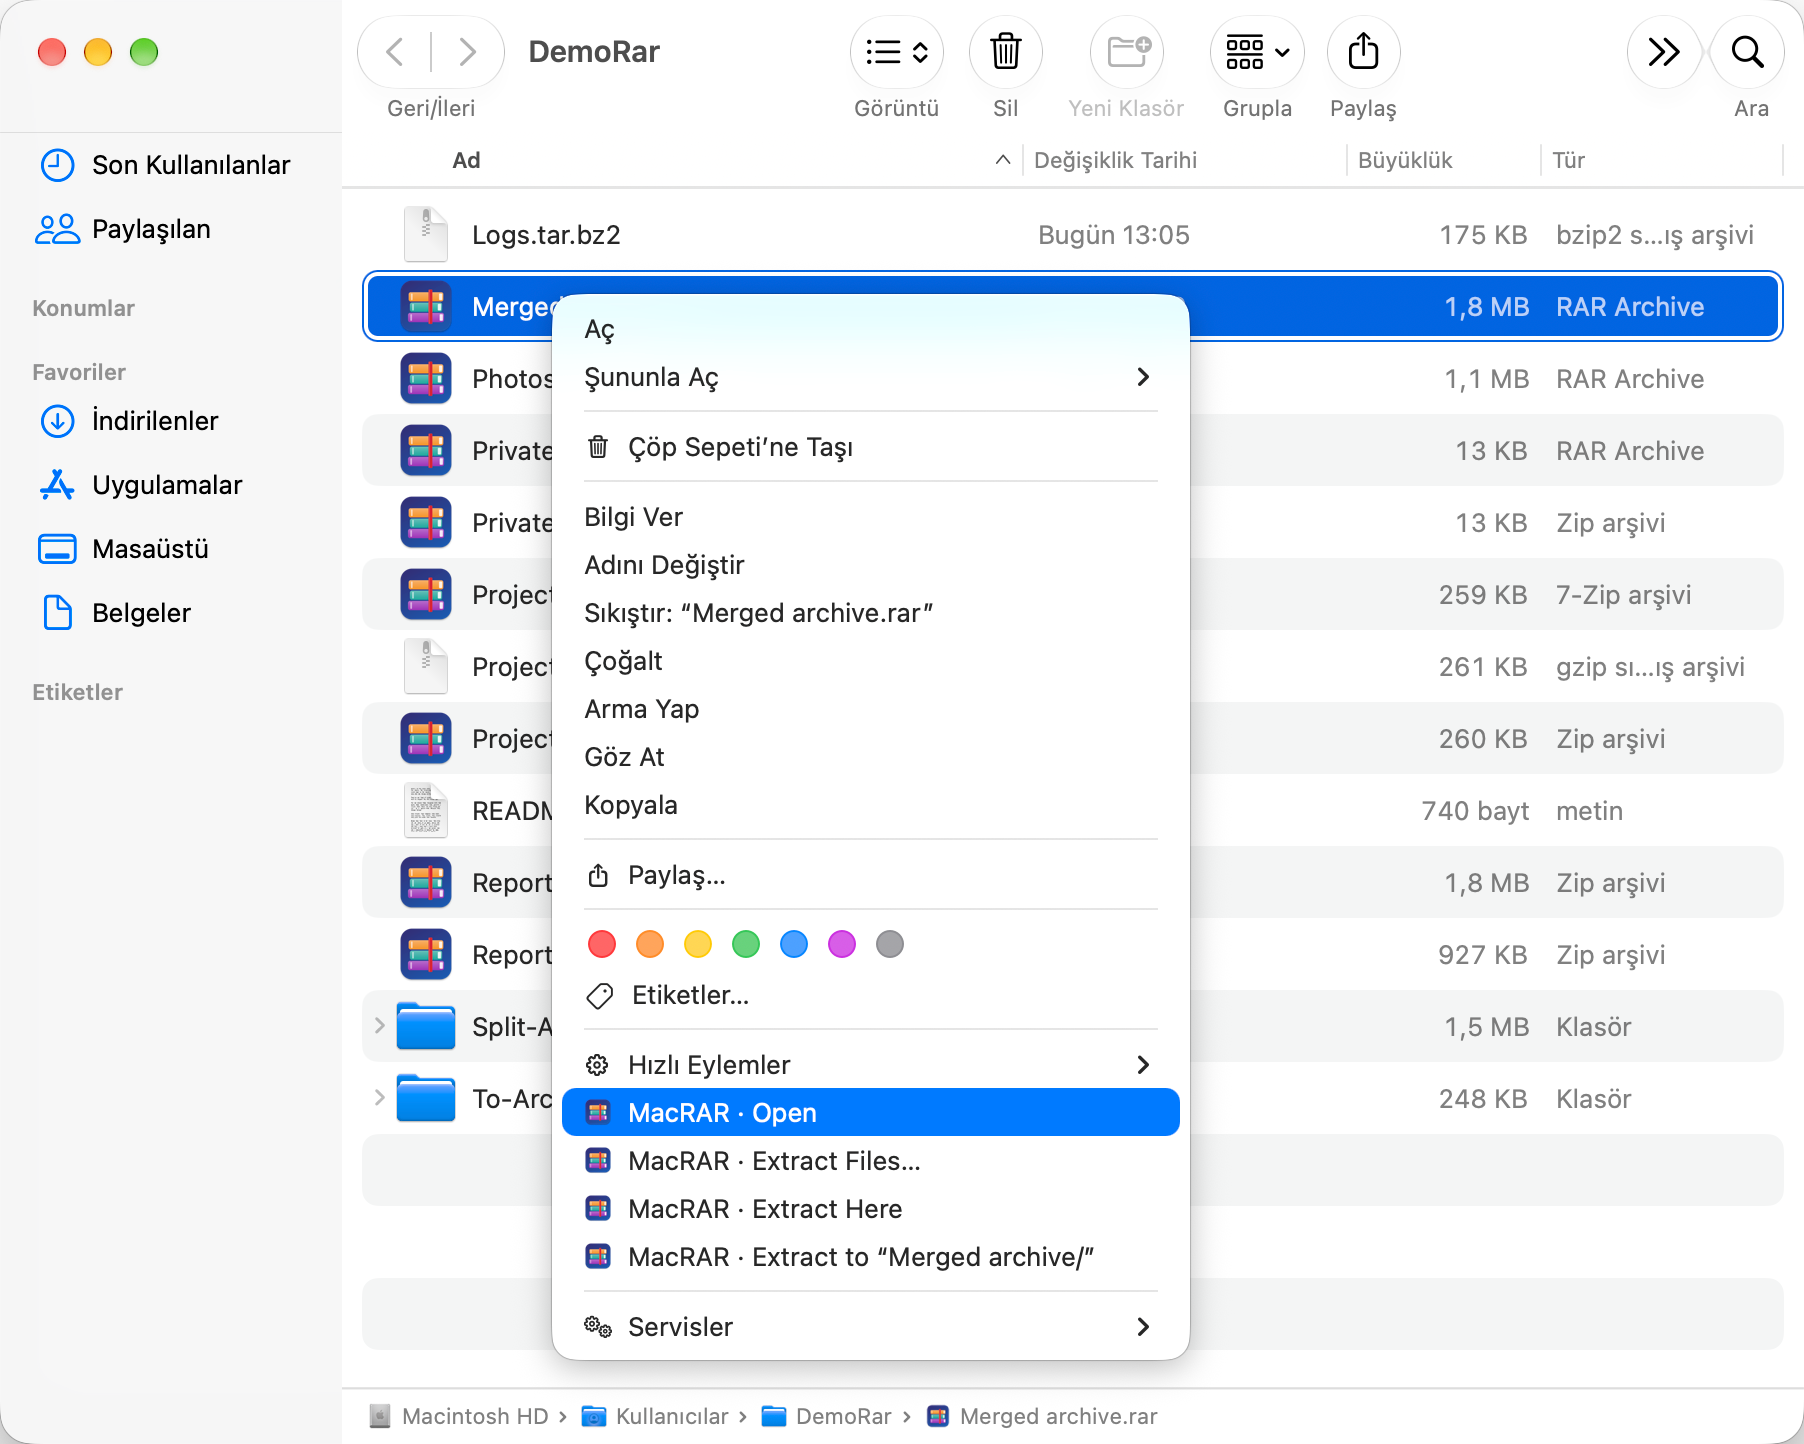
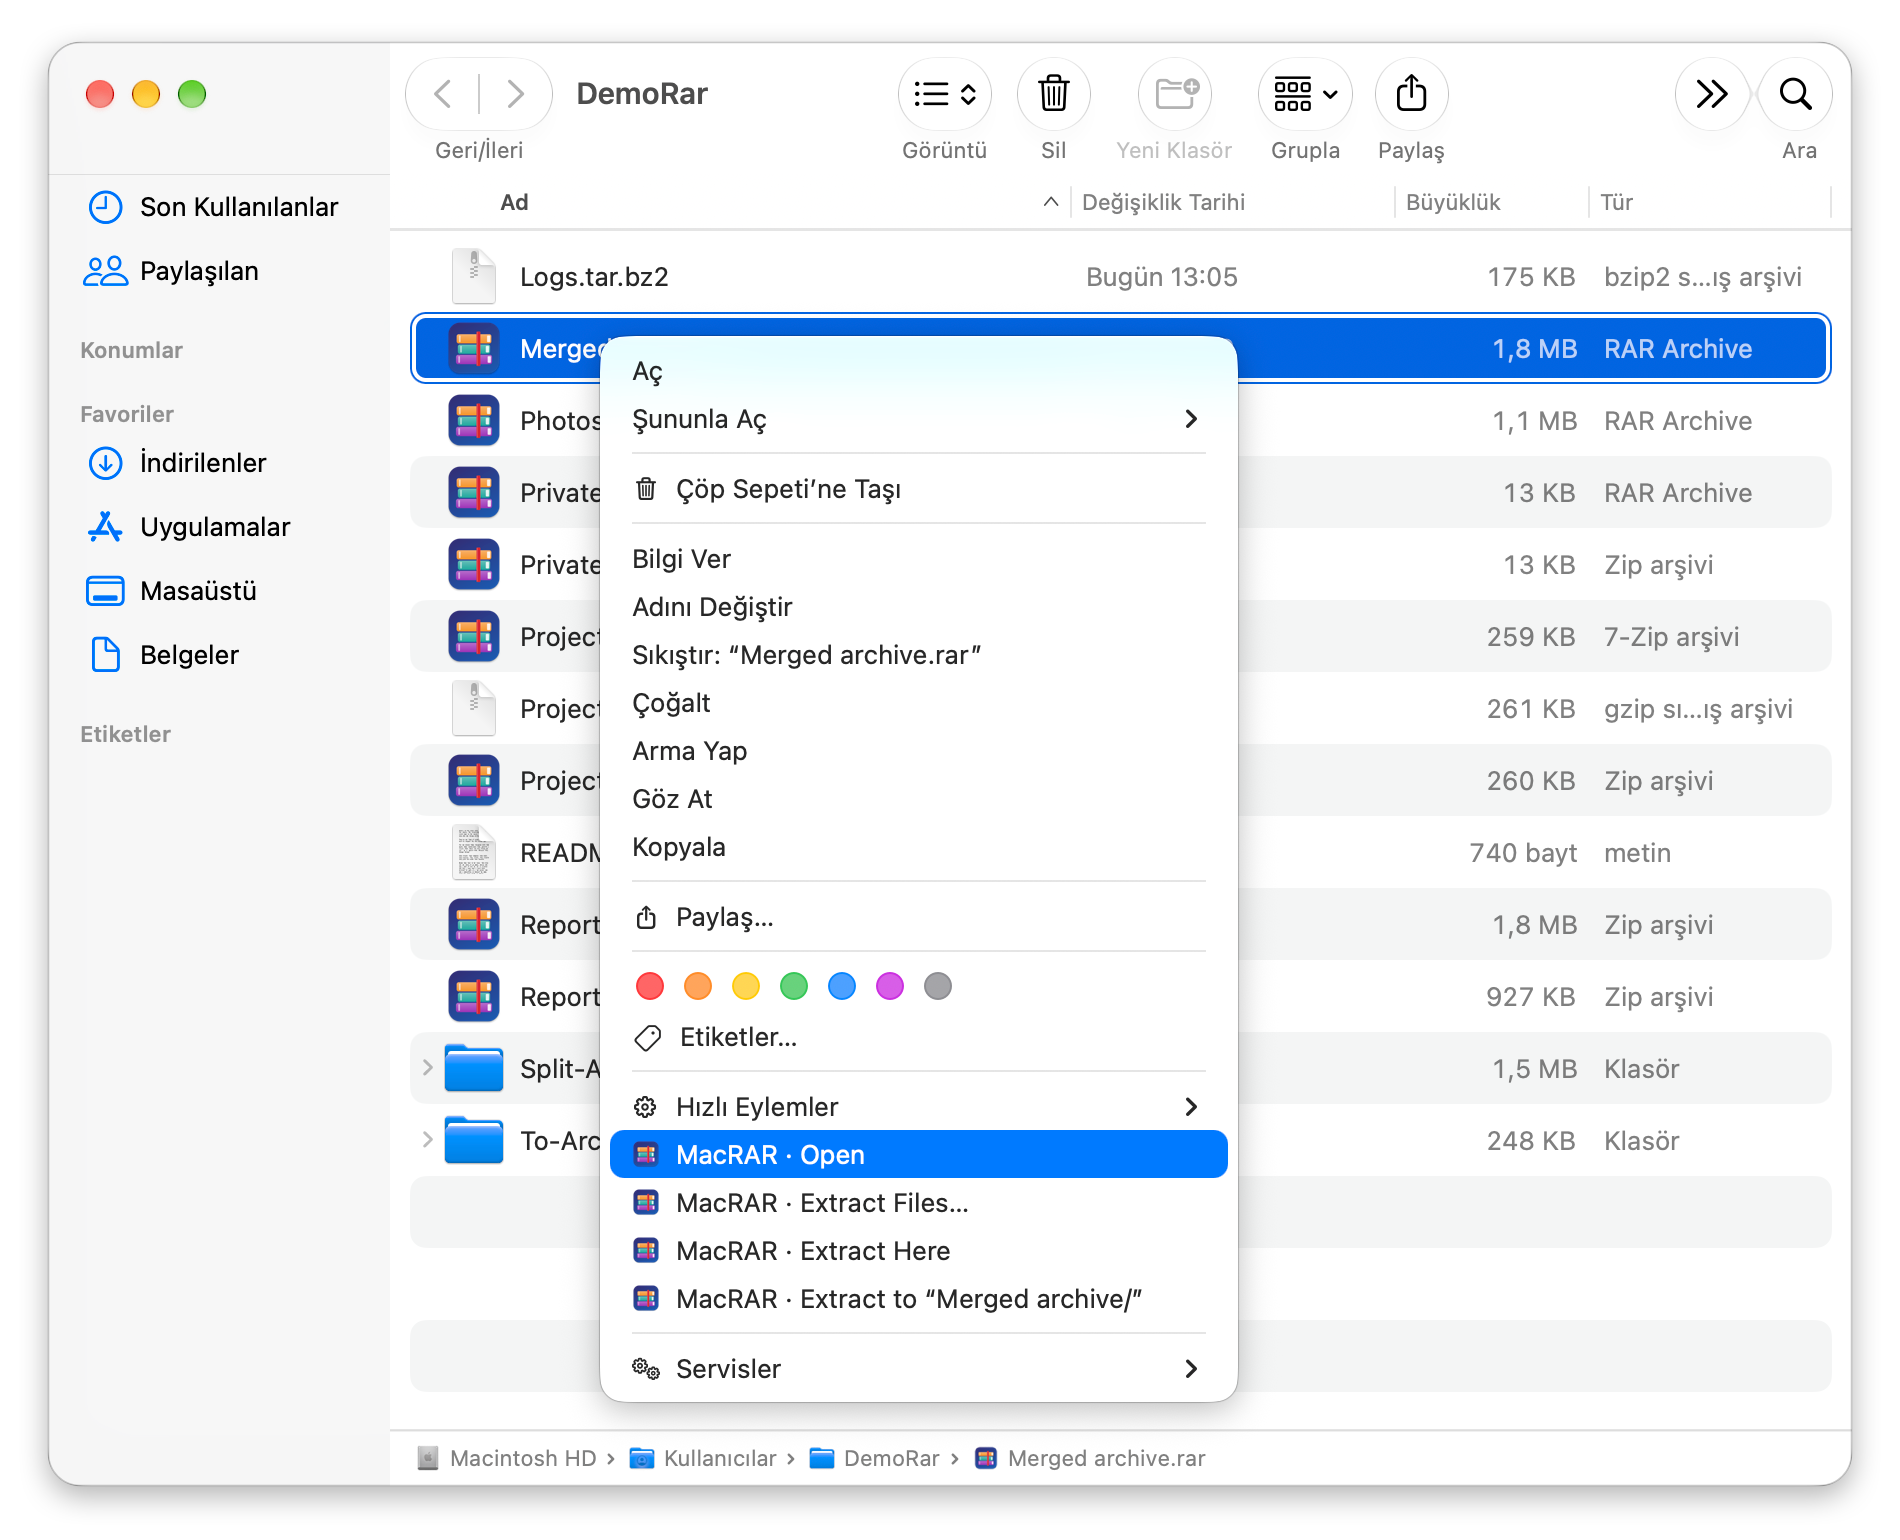
README görüntüleri: yuvarlak köşe, ince kenar ve gölge (açık zeminde pencere sınırı görünsün)

diff --git a/README.md b/README.md
@@ -31,9 +31,9 @@
 > Prefer Terminal? Run `xattr -d com.apple.quarantine ~/Downloads/MacRAR-*.pkg`, then double-click the package.
 
 <p align="center">
-  <img src="docs/screenshots/gatekeeper-warning.png" width="298" alt="macOS warning: the package was not opened. Click Done.">
+  <img src="docs/screenshots/gatekeeper-warning.png" width="327" alt="macOS warning: the package was not opened. Click Done.">
   &nbsp;
-  <img src="docs/screenshots/gatekeeper-open-anyway.png" width="520" alt="System Settings, Privacy &amp; Security: Open Anyway">
+  <img src="docs/screenshots/gatekeeper-open-anyway.png" width="551" alt="System Settings, Privacy &amp; Security: Open Anyway">
 </p>
 <p align="center"><sub>Left: click <b>Done</b>. Right: <b>System Settings ▸ Privacy &amp; Security ▸ Open Anyway</b>. (Screenshots from a Turkish macOS.)</sub></p>
 
@@ -77,31 +77,31 @@ Asked for encrypted archives, with the saved passwords menu and the option to sa
 
 Passwords are stored in the macOS Keychain.
 
-<p align="center"><img src="docs/screenshots/password-manager.png" width="520" alt="Password manager"></p>
+<p align="center"><img src="docs/screenshots/password-manager.png" width="568" alt="Password manager"></p>
 
 ### Settings ▸ General
 
 Hidden files, interface language and the password manager.
 
-<p align="center"><img src="docs/screenshots/settings-general.png" width="600" alt="Settings ▸ General"></p>
+<p align="center"><img src="docs/screenshots/settings-general.png" width="648" alt="Settings ▸ General"></p>
 
 ### Settings ▸ Finder
 
 Timestamp format for quick compression and the right-click menu switch.
 
-<p align="center"><img src="docs/screenshots/settings-finder.png" width="600" alt="Settings ▸ Finder"></p>
+<p align="center"><img src="docs/screenshots/settings-finder.png" width="648" alt="Settings ▸ Finder"></p>
 
 ### Settings ▸ File Types
 
 The default app for RAR, 7Z, ZIP and TAR.GZ.
 
-<p align="center"><img src="docs/screenshots/settings-file-types.png" width="600" alt="Settings ▸ File Types"></p>
+<p align="center"><img src="docs/screenshots/settings-file-types.png" width="648" alt="Settings ▸ File Types"></p>
 
 ### Setup Assistant
 
 Shows the status of the RAR tools, the Finder menu and the default app, with one-click fixes.
 
-<p align="center"><img src="docs/screenshots/setup-assistant.png" width="580" alt="Setup Assistant"></p>
+<p align="center"><img src="docs/screenshots/setup-assistant.png" width="628" alt="Setup Assistant"></p>
 
 ## Features
 
